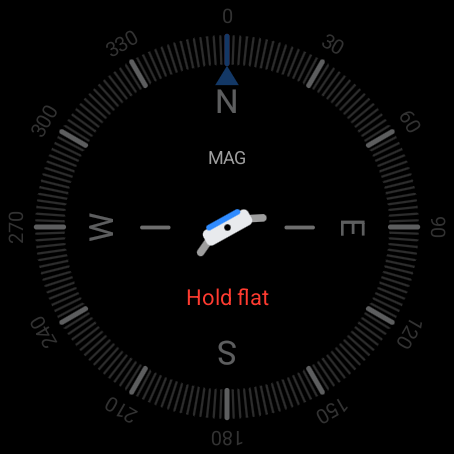
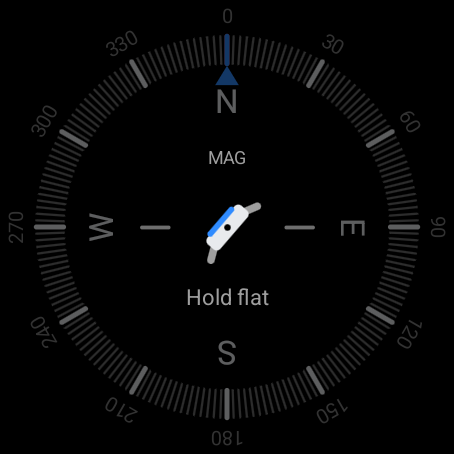
Show the Hold flat and Calibrate prompts in light gray instead of red
The owner found the red label jarring. Both prompts on the compass now use
the gray of the MAG label, so red on the compass is only the north tick.
The three hold-flat screenshots are retaken with the gray label.

Claude-Session: https://claude.ai/code/session_01Uph7YehLtr2NPXweYH2Zkf

Changed region(s): [[0.4317, 0.4317, 0.5859, 0.5859], [0.4009, 0.6167, 0.5859, 0.6784]]

diff --git a/app/src/main/java/com/infinite8looper/compass/ui/CompassScreen.kt b/app/src/main/java/com/infinite8looper/compass/ui/CompassScreen.kt
@@ -193,7 +193,7 @@ fun CompassScreen(vm: CompassViewModel, onOpenList: () -> Unit, onLog: () -> Uni
                 )
                 else -> {
                     HeadingNumber({ headingText }, style(0.30f, FontWeight.Light), Modifier.slot(0f, 2 * READOUT_RADIUS))
-                    if (lowAccuracy) Text("Calibrate", color = NorthRed, style = bodyStyle, maxLines = 1, modifier = Modifier.slot(PROMPT_Y, 0.6f))
+                    if (lowAccuracy) Text("Calibrate", color = Dim, style = bodyStyle, maxLines = 1, modifier = Modifier.slot(PROMPT_Y, 0.6f))
                 }
             }
         }

diff --git a/app/src/main/java/com/infinite8looper/compass/ui/HoldFlatHint.kt b/app/src/main/java/com/infinite8looper/compass/ui/HoldFlatHint.kt
@@ -83,7 +83,7 @@ fun HoldFlatHint(labelStyle: TextStyle, labelOffset: Dp, modifier: Modifier = Mo
     Box(modifier, contentAlignment = Alignment.Center) {
         Spacer(Modifier.matchParentSize().drawBehind { drawWatch(loop.floatValue * LOOP_MS) })
         Text(
-            "Hold flat", color = NorthRed, style = labelStyle, maxLines = 1, softWrap = false,
+            "Hold flat", color = Dim, style = labelStyle, maxLines = 1, softWrap = false,
             modifier = Modifier.wrapContentSize(unbounded = true).offset(y = labelOffset),
         )
     }
